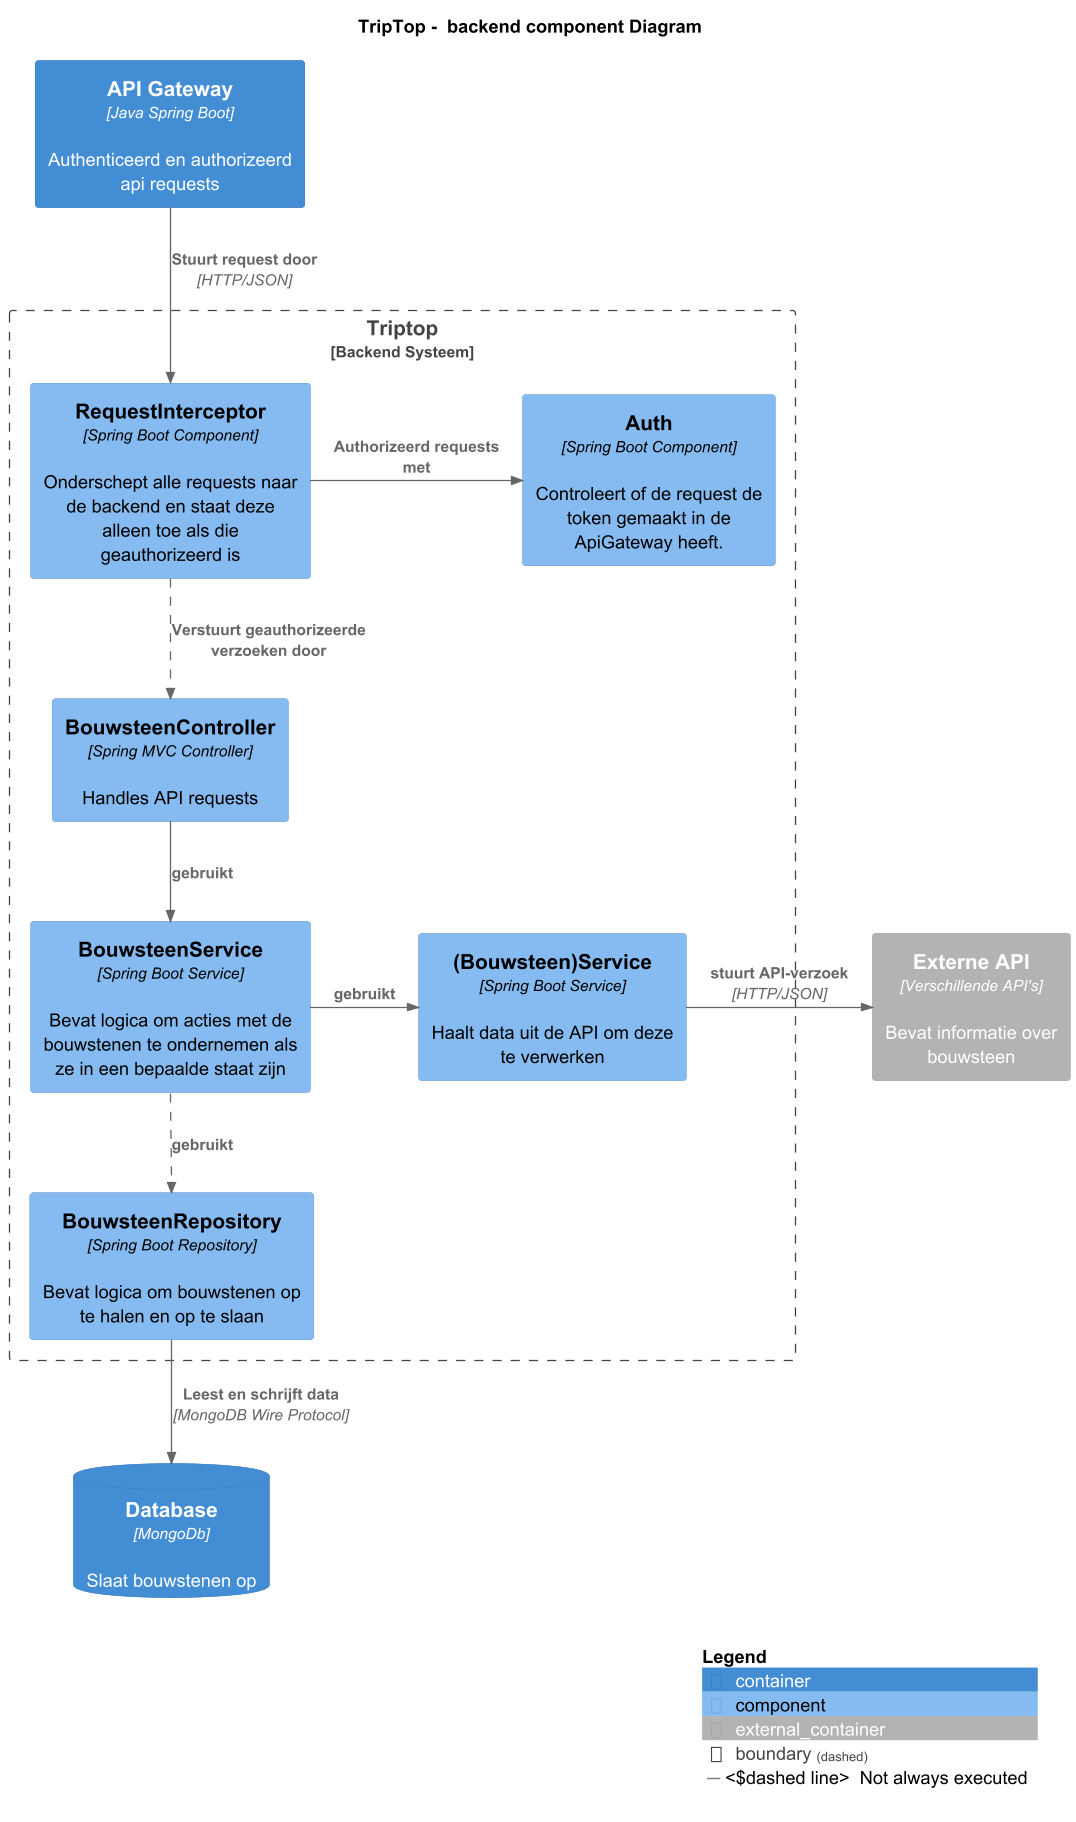
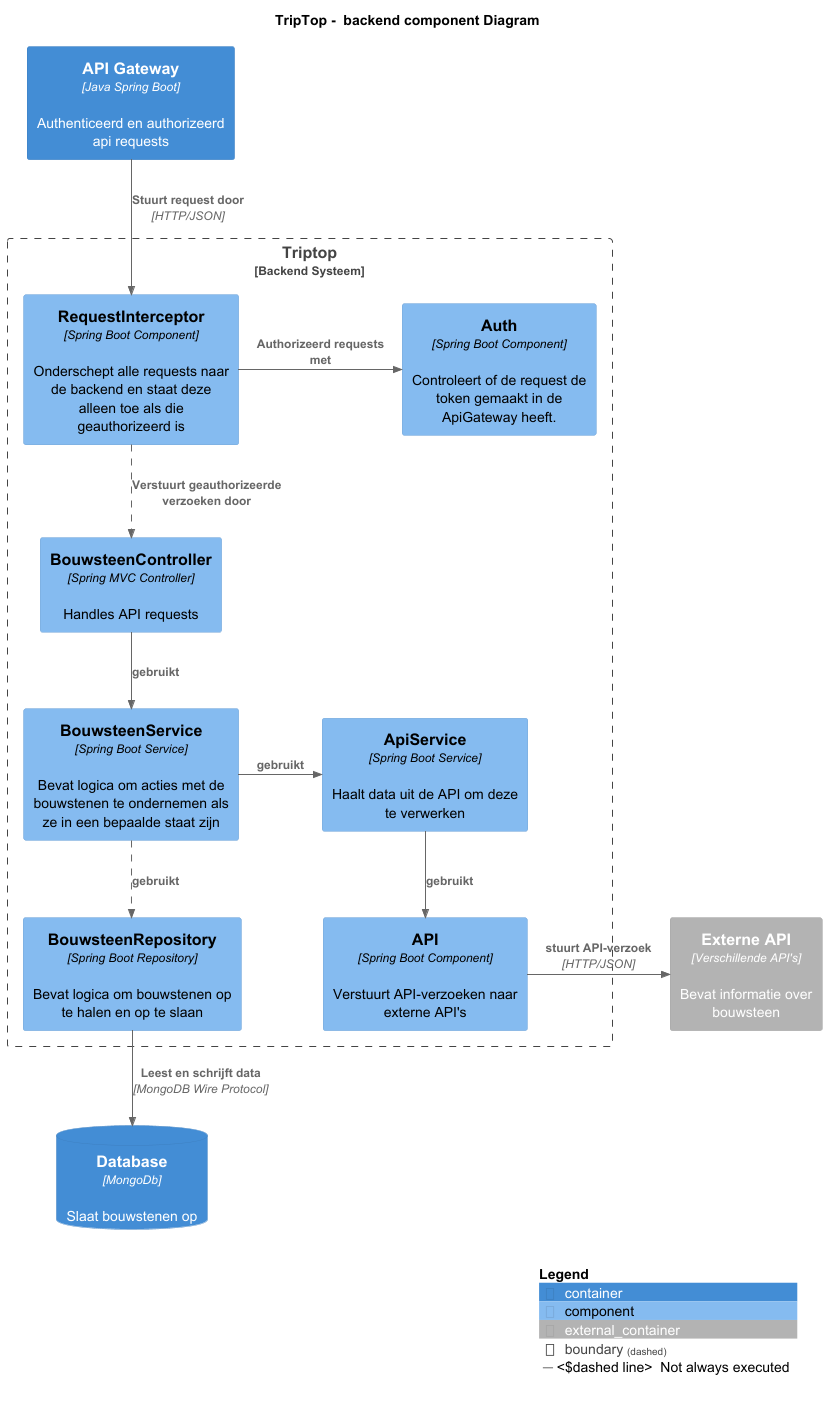
Componentdiagrammen in SGB
Componentdiagrammen over 3 containers in SGB

diff --git a/software-guidebook/README.md b/software-guidebook/README.md
@@ -98,9 +98,23 @@ De backend stuurt de token op naar de Identity Provider om deze te laten control
 Bij goedkeuring wordt de bouwsteen opgeslagen in de database.
 
 ###     7.2. Components
+Het systeem bestaat uit drie containers: de frontend, backend en de api gateway.
 
-> [!IMPORTANT]
-> Voeg toe: Component Diagram plus een Dynamic Diagram van een aantal scenario's inclusief begeleidende tekst.
+De frontend bestaat uit een reisplanner component en een login-component.
+Het login-component stuurt een inlog-verzoek naar de Identity Provider met alle inloggegevens.
+De reisplanner heeft nog een aparte lijst met bouwstenen. Beiden maken contact met de API-Gateway om informatie op te vragen
+![Frontend component diagram](./images/component_diagrams/Triptop_Frontend_Component_Diagram.png)
+
+De API-gateway bestaat uit een requestInterceptor, een Auth-component en een cache.
+De requestIntercepter stuurt een API-request van de frontend door naar het Auth-component die kijkt in de cache of de tokens al bekend zijn.
+Anders wordt de token via de Identity Provider gecontroleerd. Als dit allemaal klopt, wordt het api-call doorgestuurd naar de backend.
+![API gateway diagram](./images/component_diagrams/Triptop_Api_Gateway_Component_Diagram.png)
+
+In de backend wordt er opnieuw in een Auth-component gekeken of een token aanwezig is. Dit om te kijken of de API-request vanuit de API-gateway komt.
+Daarna wordt het doorgestuurd naar de controller. Die roept een methode aan in de service, waarbij de service die doorstuurt naar een repository als het nodig is. 
+![Backend component diagram](./images/component_diagrams/Triptop_Backend_Component_Diagram.png)
+
+In de komende subhoofdstukken staan de componentdiagrammen voor de individuele ontwerpvragen.
 
 #### Nieuwe bouwstenen toevoegen
 
